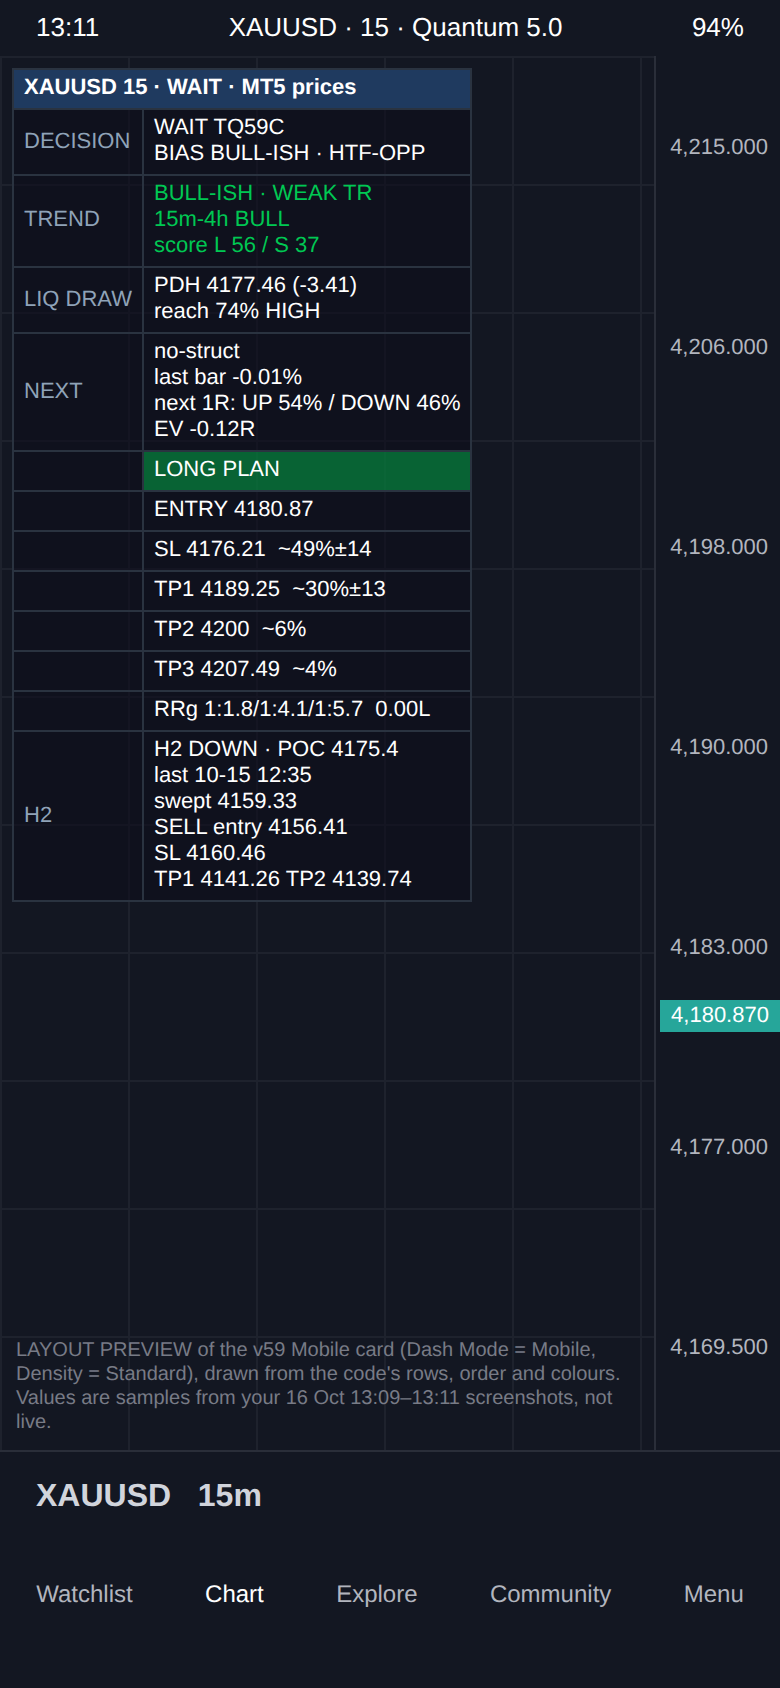
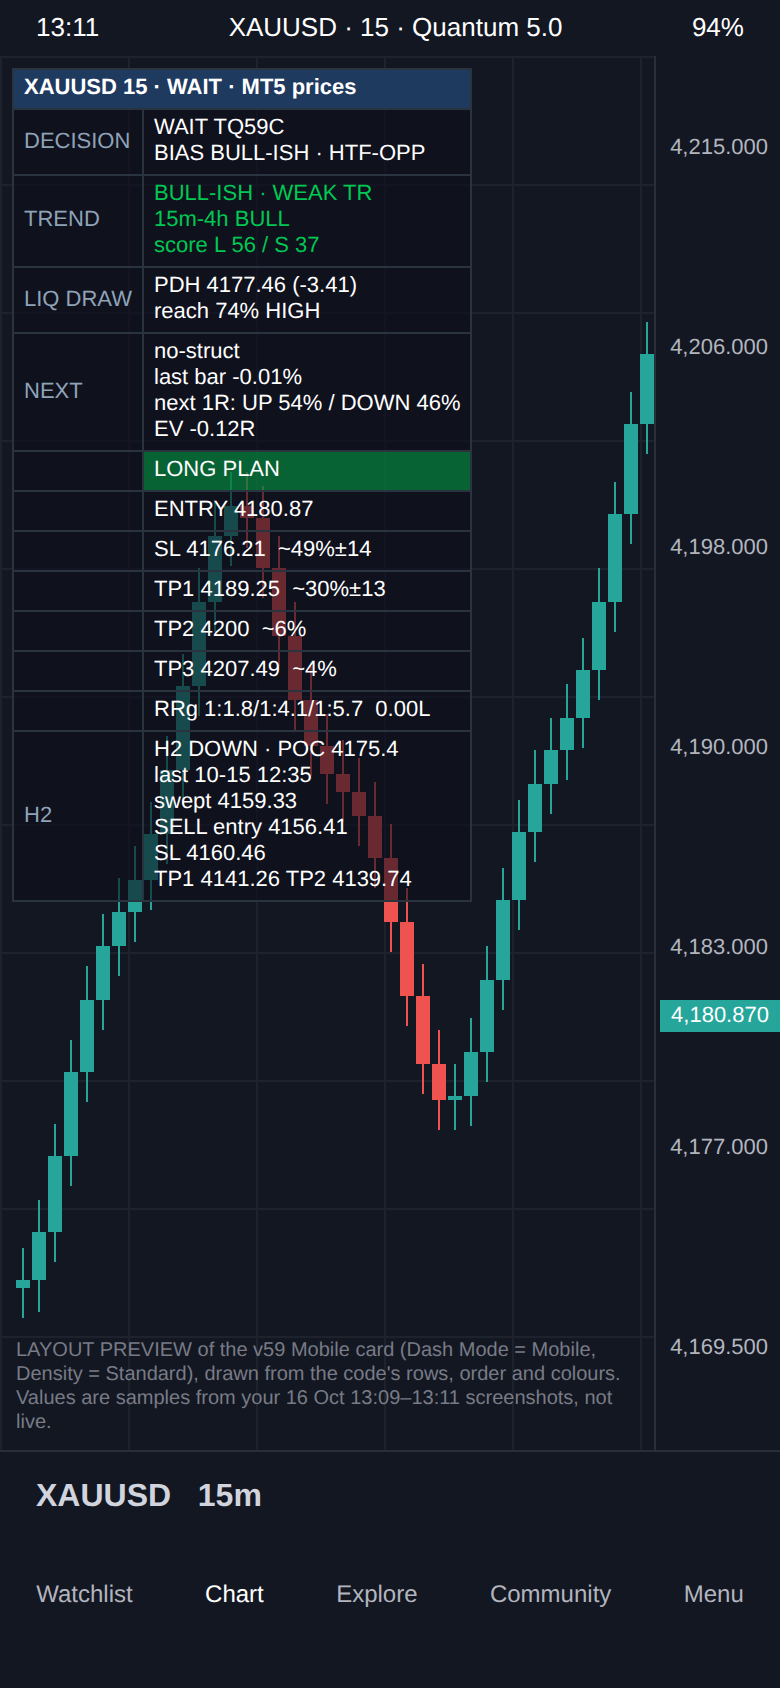
Mobile Strip: the desktop dashboard as a top band on phones (build v60)
The new Mobile layout setting chooses Strip (default) or Card. Strip
folds the desktop dashboard's own header and primary cells into three
columns at the top centre, with the MT5 plan on one line. In the
preview it takes about 18% of the phone chart area, so the candles stay
visible. Card keeps the full v57 phone card, so nothing is removed.

Token room comes from identical-output rewrites: header loop, tc via
tcb, shared size mappings and opaque colour literals.
refactor_check.py executes them, including the strip fold. Adds phone
previews of both layouts.

Claude-Session: https://claude.ai/code/session_01FDJaoThuV42HxsCxtL7ysa

Changed region(s): [[0.1846, 0.2773, 0.6769, 0.6777], [0.6769, 0.1848, 0.8615, 0.4929], [0.0, 0.5237, 0.1846, 0.7701]]

diff --git a/audit/tools/refactor_check.py b/audit/tools/refactor_check.py
@@ -118,6 +118,53 @@ ok = "_dashMobile ? 9 + col : 0," in tcpdef and "width=0" in tcpdef and len(re.f
      and len(re.findall(r"tcp\(\d, 0, ", "\n".join(V56))) == 8
 report("plan rows: 8 tcp calls, row 0 / width 0 folded into the helper", 0 if ok else 1, 8)
 
+
+# ---- v60 (Mobile Strip): size mappings computed once, headers in a loop, tc via tcb, opaque colour literals
+V59 = subprocess.run(["git", "show", "c919dc5d:" + M], capture_output=True, text=True, check=True).stdout.split("\n")
+OLD_SZ = {"_hdSize": 'textSize == "Auto" ? "small" : textSize == "Large" ? "normal" : textSize == "Small" ? "tiny" : "small"',
+          "_prSize": 'textSize == "Auto" ? "normal" : textSize == "Large" ? "large" : textSize == "Small" ? "small" : "normal"',
+          "_seSize": 'textSize == "Auto" ? "tiny" : textSize == "Large" ? "small" : textSize == "Small" ? "tiny" : "small"',
+          "_pSz": 'textSize == "Large" ? "normal" : textSize == "Small" ? "tiny" : "small"'}
+glob = {l.split(" = ", 1)[0].split()[-1]: l.split(" = ", 1)[1] for l in L if l.startswith(("string _szHd = ", "string _szSe = "))}
+bad = 0
+for ts in ("Auto", "Small", "Medium", "Large"):
+    e = P.Env(textSize=ts)
+    e["_szHd"], e["_szSe"] = P.evaluate(glob["_szHd"], e), P.evaluate(glob["_szSe"], e)
+    for v, old in OLD_SZ.items():
+        new = next(l for l in L if l.lstrip().startswith("string " + v + " = ")).split(" = ", 1)[1].split("//")[0].strip()
+        bad += P.evaluate(old, e) != P.evaluate(new, e)
+report("text sizes _hdSize / _prSize / _seSize / _pSz (v59 ternaries == v60 shared mappings)", bad, 16)
+heads59 = re.findall(r'tc\(\d, 0, "([A-Z]+)", C_TEXT, _hdSize, _w\d\)', "\n".join(V59))
+heads60 = re.findall(r'"([A-Z]+)"', next(l for l in L if l.lstrip().startswith("for [k, h] in array.from(")))
+report("desktop headers: same 9 names, same order (loop)", 0 if heads59 == heads60 and len(heads60) == 9 else 1, 9)
+ok = any(l.startswith("tc(col, row, txt, tcol, ts, w) => tcb(col, row, txt, tcol, color(na), ts, w)") for l in L)
+report("tc = tcb with no background (table.cell's default bgcolor is na)", 0 if ok else 1, 1)
+lit59 = re.findall(r"color\.new\((#[0-9A-Fa-f]{6}), 0\)", "\n".join(l for l in V59 if not l.lstrip().startswith("//")))
+left = re.findall(r"color\.new\((#[0-9A-Fa-f]{6}), 0\)", "\n".join(l for l in L if not l.lstrip().startswith("//")))
+report(f"opaque colours: {len(lit59)} color.new(#rrggbb, 0) -> #rrggbb (identical: transparency 0)", len(left), len(lit59))
+
+
+# ---- v60 Strip fold, the coordinate expressions of tcb executed as written
+tl = next(l for l in L if l.lstrip().startswith("table.cell(tblA, _dashStrip ? col % 3 : col,"))
+cx, cy = [x.strip() for x in P._split_args(tl.strip()[len("table.cell("):-1])[1:3]]
+gate = next(L[i] for i, l in enumerate(L) if l.startswith("tcb(col, row, txt, tcol, bg, ts, w) =>") for _ in [0])
+cond = L[L.index(gate) + 1].strip()[3:]
+P.BUILTINS["int"] = lambda x: P.NA if P.isna(x) else int(x)
+seen, bad = {}, 0
+for col in range(9):
+    for row in range(4):
+        e = P.Env(col=float(col), row=float(row), _dashStrip=True, _dashMobile=False)
+        shown = bool(P.evaluate(cond, e))
+        if row >= 2:
+            bad += shown                          # detail rows must not be written in the strip
+            continue
+        x, y = int(P.evaluate(cx.replace("%", "%"), e)), int(P.evaluate(cy, e))
+        bad += not (0 <= x < 3 and 0 <= y < 6) or (x, y) in seen
+        seen[(x, y)] = (col, row)
+        if row == 1:
+            bad += seen.get((x, y - 1)) != (col, 0)   # each value sits directly under its own header
+report("Strip fold: 9 headers + 9 values on unique cells of the 3 x 6 grid, header above value, details skipped", bad, 36)
+
 left = [i + 1 for i, l in enumerate(L) if re.search(r"array\.get\(gDash[SCF], \d+\)", l)]
 helpers = all(any(l.startswith(f"_g{c}(int i) => array.get(gDash{c}, i)") for l in L) for c in "SCF")
 report("dashboard array reads go through _gS / _gC / _gF (identical: array.get(gDash*, i))", 0 if helpers and not left else 1, 1)

diff --git a/audit/VALUE_TRACEABILITY.md b/audit/VALUE_TRACEABILITY.md
@@ -8,31 +8,31 @@ none exercises the TradingView runtime (that is the operator's compile and chart
 
 | Stage | On screen | Variable | Defined at | Formula | Verified by |
 |---|---|---|---|---|---|
-| 1 Data | all higher-timeframe values | `htf1hClose ... htf1dEma200` | `Master.pine:576` | request.security(TF, close[1] / EMA20/100/200 of close[1], lookahead_on): the last COMPLETED bar, same live and in history (F-A41) | pinelimits G10; Diagnostics Math probes (=1d back on every bar) |
-| 1 Data | volatility unit | `adaptiveATR` | `Master.pine:748` | max(adaptive ATR, 0.01% of price): never 0 after the first bar | regime_check.py |
-| 2 Regime | regime (RANGE / STRONG TR / ...) , LV/NV/HV | `mktRegime, volTag` | `Master.pine:789` | percentile-based: ABNORMAL (news window, |z|>3 or ATR > 2.5x its 100-bar mean) > COMPRESS > EXPANSION > STRONG > WEAK > RANGE; LV <= 20th, HV >= 80th ATR percentile | regime_check.py (20,000 states, all ATR percentiles) |
-| 2 Regime | SL multiple | `regSLMult` | `Master.pine:791` | regime base x (0.9 + ATRpct/500), clamped [1.0, 2.2] | regime_check.py (bounds, monotone) |
-| 2 Regime | size haircut | `regSizeMult` | `Master.pine:796` | 0.5 ABNORMAL / 0.75 HV / 1.0 | regime_check.py; sizing lines executed (v46) |
-| 3 Evidence | MTF arrows / confluence | `mtfConfluenceScore` | `Master.pine:2252` | votes normalised by the layers available on the chart's timeframe (F-A40) | formula_trace.py test_mtf |
-| 3 Evidence | volume profile POC / VAH / VAL | `vpocPrice, vahPrice, valPrice` | `Master.pine:1901` | 100 bars x 40 bins, typical price, 70% value area; rebuilt every confirmed bar (F-A46) | h2_trace.py (engine VP == spec) |
-| 3 Evidence | MACRO verdict (Macro BULL / bull-ish / MIX / bear-ish / BEAR + score) | `macroStrengthScore` | `Master.pine:1371` | sum of DXY, yields, SPX, EURUSD, silver, TIPS votes weighted by |correlation| (normalised to 100) + DXY momentum +/-10 + rate pressure +/-10, clamped -100..+100; >= 40 BULL, 15..39 bull-ish, <= -40 BEAR (F-A53 label) | read from code (v50); inputs are completed 1H bars (F-A41) |
-| 3 Evidence | macro arrows DXY / 10Y / EUR / XAG / SPX / TIP (▲ ▼ ≈ —) | `_arrowStr` | `Master.pine:5057` | IMPACT on gold: ▲ / ▲▲ supports up, ▼ / ▼▼ down by |corr| > 0.25 / > 0.5; flat or weak = ≈; no data = — (F-A54: flat was ▼) | brief_trace.py §6 (executed, 4000 states) |
-| 4 Scores | L / S / R % (SIGNAL) | `bullScore, bearScore, rangeScore` | `Master.pine:4520` | evidence -> analog blend -> forecast engine -> normalisation to 100 | sequence.py; diag_parity.py (stats engine) |
-| 6 Plan | SIGNAL cell: analog evidence, calibration, IS WR, feature edges (wired v59) | `oPdh1stPct, oBosCont, oMaxAdverseATR, oCalDetail, __cg, __cb, __iw, __in, __fs..__fc` | `Master.pine:5640` | stats-engine outputs (held identical to the twin, diag_parity.py): PDH/PDL-first %, BOS continue / fail %, MAE (ATR), calibration grade + Brier, in-sample WR + n, per-feature edges (c / (c + w) - 50 over resolved analogs, F-A45) | diag_parity.py (stats engine); formula_trace.py; read from code |
-| 4 Scores | BIAS | `biasLabel` | `Master.pine:4537` | >= 62 BULL/BEAR/RANGE, else the larger score -ISH, on the FINAL scores | sequence.py (F-A35) |
-| 4 Scores | mP= / S% | `_calibratedProb` | `Master.pine:4638` | constrained weighted least-squares Platt fit on observed outcomes, clamped [0.05, 0.95] (F-A38) | formula_trace.py test_platt |
-| 5 Gates | entry rule | `shouldBuy / shouldSell` | `Master.pine:2498` | trend + HTF not against + session >= 30 + no news/DD + recent bar, then structure or displacement | decision_check.py (every condition necessary; BUY/SELL exclusive) |
-| 6 Plan | PLAN side / entry / SL / TP1-3 | `f_tradePlan()` | `Master.pine:4529` | built on the FINAL scores (F-A48); SL = nearest structure +/- 0.15 ATR inside [0.6 ATR, 1.6 x regime ATR]; TPs = liquidity targets >= 0.8R, R-multiple fallback | order.py; sequence.py |
-| 6 Plan | EV (R) | `planExpectancy` | `Master.pine:2799` | P(win) x RR - P(loss) + E[timeout] - cost, from the race probabilities | formula_trace.py test_race; expectancy_check.py |
-| 6 Plan | TQ | `tradeQuality` | `Master.pine:4653` | trend / zone / macro / history / EV (50 + 50 tanh(EV/0.75)) components on the plan side | formula_trace.py test_tanh |
-| 7 Veto | NO TRADE | `tqVeto` | `Master.pine:4782` | TQ below floor OR EV < 0 OR calibrated P below minimum; + risk lock | decision_check.py (truth table) |
-| 8 Decision | DECISION | `_confDirLabel` | `Master.pine:4917` | RISK LOCK > NO TRADE > BUY / SELL > WARMUP > WAIT | decision_check.py (precedence; never BUY/SELL while vetoed) |
-| 9 MT5 | Entry / SL / TP prices | `tpEntryStr ... tp3Str` | `Master.pine:2743` | _m(x) = TradingView price + MT5 Price Offset, 2 decimals (one helper for every order price) | v46 review (offset applied everywhere an order price is shown) |
-| 9 MT5 | Risk % | `_kellyPct` | `Master.pine:5341` | half-Kelly on the Wilson 95% LOWER win probability at effective N, capped at Risk %, x skew/kurtosis/drawdown haircuts | formula_trace.py test_kelly |
-| 9 MT5 | $ risk / lots | `_riskUSD, _lots` | `Master.pine:5378` | account x Risk % x regime haircut; lots = floor(risk $ / (SL distance x 100 oz), 0.01); '<min' below the broker minimum (F-A52) | sizing lines executed, 3000 cases (v46) |
-| 9 MT5 | structure / sweep / H2 alert | `_evS` | `Master.pine:5864` | first bar of BOS / CHoCH / MSS / liquidity sweep (engine flags = STRUCTURE cell) + H2 SETUP text; info only | decision_check.py (alert edge test) |
-| 9 MT5 | BUY / SELL alert text | `_mt5Plan` | `Master.pine:5846` | the same strings as the PLAN box | v46 review |
-| 10 H2 | H2 SETUP | `h2Long / h2Short, h2Plan` | `Master.pine:5199` | sweep of the last unswept 5-bar swing + 2-of-3 HTF trend + value side of POC; SL wick +/- 0.15 ATR; TP1 max(POC,1R), TP2 max(VAH,2R) | h2_parity.py; h2_trace.py |
+| 1 Data | all higher-timeframe values | `htf1hClose ... htf1dEma200` | `Master.pine:582` | request.security(TF, close[1] / EMA20/100/200 of close[1], lookahead_on): the last COMPLETED bar, same live and in history (F-A41) | pinelimits G10; Diagnostics Math probes (=1d back on every bar) |
+| 1 Data | volatility unit | `adaptiveATR` | `Master.pine:754` | max(adaptive ATR, 0.01% of price): never 0 after the first bar | regime_check.py |
+| 2 Regime | regime (RANGE / STRONG TR / ...) , LV/NV/HV | `mktRegime, volTag` | `Master.pine:795` | percentile-based: ABNORMAL (news window, |z|>3 or ATR > 2.5x its 100-bar mean) > COMPRESS > EXPANSION > STRONG > WEAK > RANGE; LV <= 20th, HV >= 80th ATR percentile | regime_check.py (20,000 states, all ATR percentiles) |
+| 2 Regime | SL multiple | `regSLMult` | `Master.pine:797` | regime base x (0.9 + ATRpct/500), clamped [1.0, 2.2] | regime_check.py (bounds, monotone) |
+| 2 Regime | size haircut | `regSizeMult` | `Master.pine:802` | 0.5 ABNORMAL / 0.75 HV / 1.0 | regime_check.py; sizing lines executed (v46) |
+| 3 Evidence | MTF arrows / confluence | `mtfConfluenceScore` | `Master.pine:2258` | votes normalised by the layers available on the chart's timeframe (F-A40) | formula_trace.py test_mtf |
+| 3 Evidence | volume profile POC / VAH / VAL | `vpocPrice, vahPrice, valPrice` | `Master.pine:1907` | 100 bars x 40 bins, typical price, 70% value area; rebuilt every confirmed bar (F-A46) | h2_trace.py (engine VP == spec) |
+| 3 Evidence | MACRO verdict (Macro BULL / bull-ish / MIX / bear-ish / BEAR + score) | `macroStrengthScore` | `Master.pine:1377` | sum of DXY, yields, SPX, EURUSD, silver, TIPS votes weighted by |correlation| (normalised to 100) + DXY momentum +/-10 + rate pressure +/-10, clamped -100..+100; >= 40 BULL, 15..39 bull-ish, <= -40 BEAR (F-A53 label) | read from code (v50); inputs are completed 1H bars (F-A41) |
+| 3 Evidence | macro arrows DXY / 10Y / EUR / XAG / SPX / TIP (▲ ▼ ≈ —) | `_arrowStr` | `Master.pine:5063` | IMPACT on gold: ▲ / ▲▲ supports up, ▼ / ▼▼ down by |corr| > 0.25 / > 0.5; flat or weak = ≈; no data = — (F-A54: flat was ▼) | brief_trace.py §6 (executed, 4000 states) |
+| 4 Scores | L / S / R % (SIGNAL) | `bullScore, bearScore, rangeScore` | `Master.pine:4526` | evidence -> analog blend -> forecast engine -> normalisation to 100 | sequence.py; diag_parity.py (stats engine) |
+| 6 Plan | SIGNAL cell: analog evidence, calibration, IS WR, feature edges (wired v59) | `oPdh1stPct, oBosCont, oMaxAdverseATR, oCalDetail, __cg, __cb, __iw, __in, __fs..__fc` | `Master.pine:5639` | stats-engine outputs (held identical to the twin, diag_parity.py): PDH/PDL-first %, BOS continue / fail %, MAE (ATR), calibration grade + Brier, in-sample WR + n, per-feature edges (c / (c + w) - 50 over resolved analogs, F-A45) | diag_parity.py (stats engine); formula_trace.py; read from code |
+| 4 Scores | BIAS | `biasLabel` | `Master.pine:4543` | >= 62 BULL/BEAR/RANGE, else the larger score -ISH, on the FINAL scores | sequence.py (F-A35) |
+| 4 Scores | mP= / S% | `_calibratedProb` | `Master.pine:4644` | constrained weighted least-squares Platt fit on observed outcomes, clamped [0.05, 0.95] (F-A38) | formula_trace.py test_platt |
+| 5 Gates | entry rule | `shouldBuy / shouldSell` | `Master.pine:2504` | trend + HTF not against + session >= 30 + no news/DD + recent bar, then structure or displacement | decision_check.py (every condition necessary; BUY/SELL exclusive) |
+| 6 Plan | PLAN side / entry / SL / TP1-3 | `f_tradePlan()` | `Master.pine:4535` | built on the FINAL scores (F-A48); SL = nearest structure +/- 0.15 ATR inside [0.6 ATR, 1.6 x regime ATR]; TPs = liquidity targets >= 0.8R, R-multiple fallback | order.py; sequence.py |
+| 6 Plan | EV (R) | `planExpectancy` | `Master.pine:2805` | P(win) x RR - P(loss) + E[timeout] - cost, from the race probabilities | formula_trace.py test_race; expectancy_check.py |
+| 6 Plan | TQ | `tradeQuality` | `Master.pine:4659` | trend / zone / macro / history / EV (50 + 50 tanh(EV/0.75)) components on the plan side | formula_trace.py test_tanh |
+| 7 Veto | NO TRADE | `tqVeto` | `Master.pine:4788` | TQ below floor OR EV < 0 OR calibrated P below minimum; + risk lock | decision_check.py (truth table) |
+| 8 Decision | DECISION | `_confDirLabel` | `Master.pine:4923` | RISK LOCK > NO TRADE > BUY / SELL > WARMUP > WAIT | decision_check.py (precedence; never BUY/SELL while vetoed) |
+| 9 MT5 | Entry / SL / TP prices | `tpEntryStr ... tp3Str` | `Master.pine:2749` | _m(x) = TradingView price + MT5 Price Offset, 2 decimals (one helper for every order price) | v46 review (offset applied everywhere an order price is shown) |
+| 9 MT5 | Risk % | `_kellyPct` | `Master.pine:5347` | half-Kelly on the Wilson 95% LOWER win probability at effective N, capped at Risk %, x skew/kurtosis/drawdown haircuts | formula_trace.py test_kelly |
+| 9 MT5 | $ risk / lots | `_riskUSD, _lots` | `Master.pine:5384` | account x Risk % x regime haircut; lots = floor(risk $ / (SL distance x 100 oz), 0.01); '<min' below the broker minimum (F-A52) | sizing lines executed, 3000 cases (v46) |
+| 9 MT5 | structure / sweep / H2 alert | `_evS` | `Master.pine:5868` | first bar of BOS / CHoCH / MSS / liquidity sweep (engine flags = STRUCTURE cell) + H2 SETUP text; info only | decision_check.py (alert edge test) |
+| 9 MT5 | BUY / SELL alert text | `_mt5Plan` | `Master.pine:5850` | the same strings as the PLAN box | v46 review |
+| 10 H2 | H2 SETUP | `h2Long / h2Short, h2Plan` | `Master.pine:5205` | sweep of the last unswept 5-bar swing + 2-of-3 HTF trend + value side of POC; SL wick +/- 0.15 ATR; TP1 max(POC,1R), TP2 max(VAH,2R) | h2_parity.py; h2_trace.py |
 | 11 Brief | PLAYBOOK SELL / BUY: trigger, stop, TP1, TP2, R:R | `f_brSide` | `Brief.pine:5261` | the website's arm H4 rule: nearest level beyond 0.1 ATR (levels merged within 0.05 ATR); stop = trigger -/+ regSLMult x ATR; TP = next levels >= 1 stop beyond, else 2 stops; built at a bar close, applies to the next | brief_trace.py (vs the site's arm_h4.py, executed) |
 | 11 Brief | playbook fired (and its alert) | `fS / fB` | `Brief.pine:5332` | the next bar's close beyond the trigger and short of TP1 (sell checked first) | brief_trace.py (vs arm_h4.evaluate) |
 | 11 Brief | TARGET / then / opposite liquidity | `f_brNear` | `Brief.pine:5285` | nearest pool / day / swing level beyond price on the side of the lean (bull >= bear), from the last closed bar | brief_trace.py (vs the site's nextLevels, Node) |

diff --git a/audit/AUDIT_PROMPT.md b/audit/AUDIT_PROMPT.md
@@ -18,7 +18,7 @@ scope, and no other build of these scripts is in scope.
 
 | File | Lines | Bytes | SHA-256 |
 |---|---:|---:|---|
[5 lines of base64/hex data omitted]
@@ -28,7 +28,7 @@ scope, and no other build of these scripts is in scope.
[2 lines of base64/hex data omitted]
 
-> **BUILD v59 — this prompt pins the current build.** The originally audited build
+> **BUILD v60 — this prompt pins the current build.** The originally audited build
 > (v1) is superseded. Findings F-A01, F-A03, F-A04 and F-A06 from
 > `FINDINGS_TRACEABILITY.md` were applied in v2; **F-A07 in v3** (marked basis);
 > **F-A02 and F-A05 in v4** via a calibrated-probability veto folded into `tqVeto`; and
@@ -105,6 +105,7 @@ scope, and no other build of these scripts is in scope.
 > **v57:** cross-check line moved Master → Brief (ENGINE / DATA rows); Master phone card (title, DECISION first, LIQ DRAW, switches); desktop H2 cell; Brief Compact layout.
 > **v58: F-A58** — the Master computes nothing it does not show (7 documented exceptions, enforced by `deadcode.py`); moved features held to their v56 definitions by `moved_check.py`.
 > **v59:** nothing removed — v57/v58 removals restored from v56 and wired; the Master displays every value it computes (0 dead, 0 structural, 0 companion-only); identical-output rewrites proven by `refactor_check.py`.
+> **v60:** Mobile layout = Strip (desktop cells folded 3 x 3 in a top band, plan on one line) or Card; identical-output rewrites for room (`refactor_check.py`).
 > Data-collection steps: `audit/RUNBOOK.md`.
 >
 > **§4.5 is now CLOSED** — the EdgeCases citations it documents as stale have been

diff --git a/audit/CHANGELOG.md b/audit/CHANGELOG.md
@@ -1972,3 +1972,27 @@ we have to link it up / wire it up. Show me the mobile dashboard as well."
 - **Mobile dashboard preview:** `audit/mobile_card_preview_v59.png`. It is a layout render of the v59 card using the
   code's rows, order and colours, with sample values from the operator's 16 Oct screenshots; not live data.
 - Compile NOT RUN on v59.
+
+# Build v59 → v60 — Mobile "Strip": the desktop dashboard as a top band (operator)
+
+Operator: "the mobile dashboard should look like the web dashboard, but adjusted to 15-20% at the top of the screen so
+the candles are visible".
+
+- **New setting "Mobile layout"** under Dash Mode = Mobile:
+  - **Strip (top band)** is the new default. It shows the desktop dashboard's OWN header and primary cells (MARKET, BIAS,
+    SIGNAL / STRUCTURE, LIQUIDITY, PRICE / MACRO, RISK, DECISION) folded into three columns at the top centre, with the
+    MT5 plan on one line underneath: "LONG PLAN entry · SL · TP1 · TP2".
+  - **Card** is the v57 phone card, unchanged. Nothing is removed: the desktop detail rows, H2 and the full plan stay in
+    the Card layout and on desktop.
+- **Size:** text is tiny (small at Text Size Medium / Large), so the band is about 18% of a phone's chart area in the
+  preview (`audit/mobile_strip_preview_v60.png`, sample values from the operator's 16 Oct 13:09 screenshot).
+- **Mechanism:** one cell writer, `tcb`. In Strip it maps desktop column k to (k % 3, 2 · int(k / 3) + row) and skips the
+  detail rows. `refactor_check.py` executes that fold: 9 headers and 9 values on unique cells of the 3 × 6 grid, each
+  header directly above its value, details skipped.
+- **Token room, by identical-output rewrites** (`refactor_check.py`, executed):
+  - the nine header cells become one loop (same names, same order; header width auto, the value row sets the column);
+  - `tc` = `tcb` with no background;
+  - the text-size mappings are computed once (`_szHd`, `_szSe`; all four Text Size values give the same sizes);
+  - `color.new(#rrggbb, 0)` becomes `#rrggbb` (8 places, identical opaque colours).
+- **Master:** 39,037 lexical tokens (2.08% under the limit). 0 dead, 0 structural, 0 values computed unseen.
+- Compile NOT RUN on v60.

diff --git a/audit/RUNBOOK.md b/audit/RUNBOOK.md
@@ -80,6 +80,10 @@ establish that the Master is wired to those expressions — that is a separate, 
 
 ## Phone layout (v55)
 
+- v60: Dash Mode = **Mobile** with Mobile layout = **Strip (top band)** (the default) shows the desktop dashboard as a
+  band across the top ~15-20% of the screen, plan on one line, candles visible below. Mobile layout = **Card** gives the full
+  phone card (headlines, plan rows, H2, details). Preview: `audit/mobile_strip_preview_v60.png`.
+
 - Master: Settings → Dash Mode = **Mobile**, Density = **Standard**. That gives the headlines plus the MT5 plan. Choose
   Spacious only on a tablet, because it adds the long desktop detail rows.
 - The Mobile card sits top-left (v56). The desktop layout is not readable on a phone, so switch Dash Mode to Mobile there.
